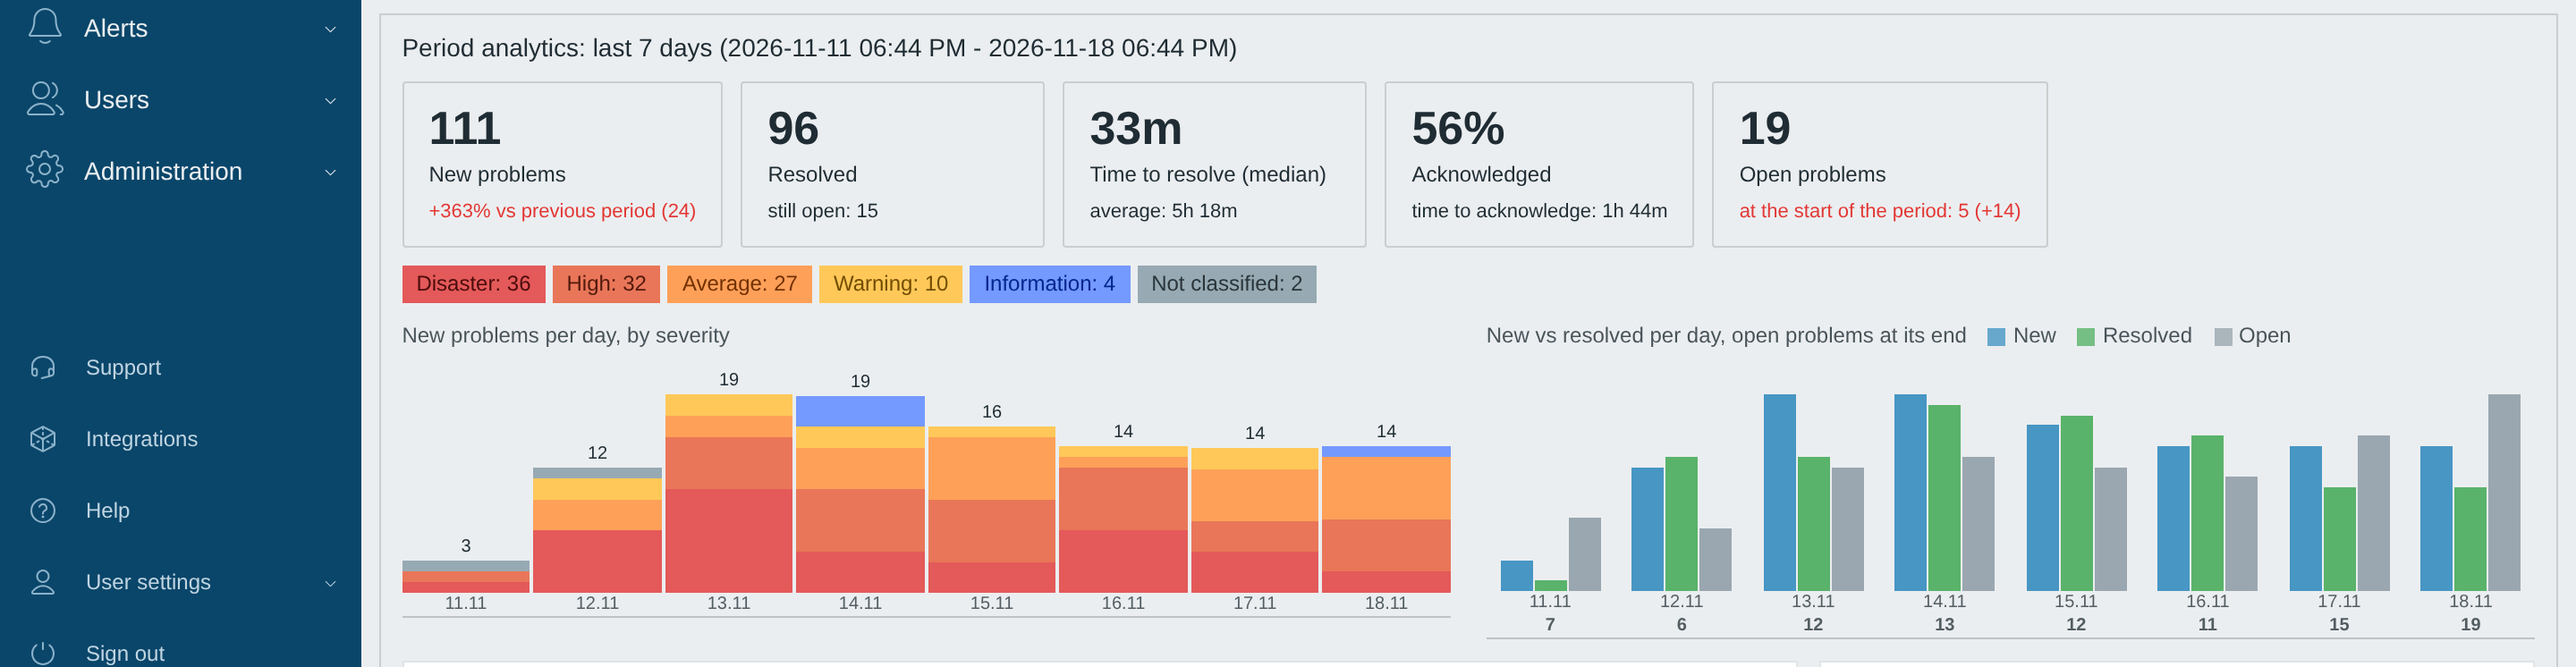
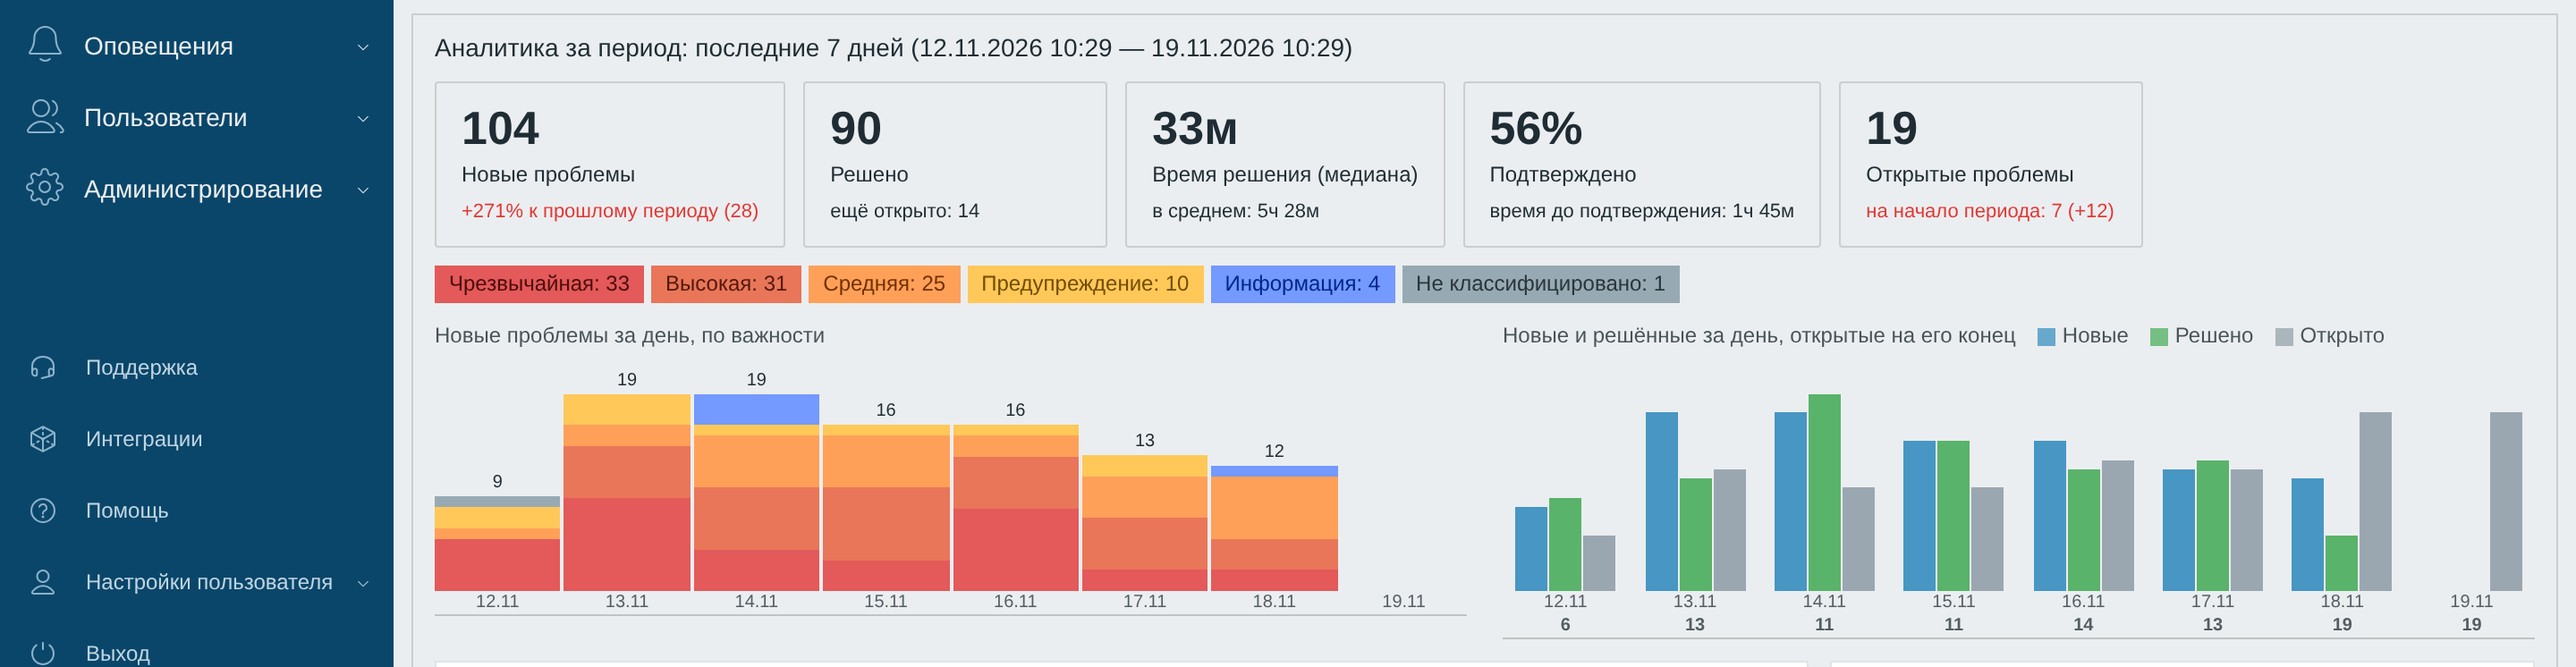
custom_reports: README screenshots in Russian
All 17 screenshots re-taken with the Russian interface (recipient rule rows
filled in the per-host / per-group forms); the separate 18-21 shots removed.

Claude-Session: https://claude.ai/code/session_01So5UuDuEdf5vNknGcGHU1R

diff --git a/modules/custom_reports/README.md b/modules/custom_reports/README.md
@@ -20,42 +20,31 @@
 
 ## Скриншоты
 
-Сняты на Zabbix 7.0.33 с тестовыми данными.
-
-Русский интерфейс (`'language' => 'ru'`, по умолчанию):
-
-| | |
-|---|---|
-| ![Дашборд на русском](docs/screenshots/18-ru-dashboard.png) | ![Вкладка «Изменения»](docs/screenshots/19-ru-changes.png) |
-| Панель отчётов: фильтр, KPI, аналитика за период, графики | Изменения: было → стало, рост и снижение |
-| ![Расписания](docs/screenshots/20-ru-schedules.png) | ![Форма расписания](docs/screenshots/21-ru-schedule-edit.png) |
-| Расписания и доставка, задание cron, мониторинг в Zabbix | Форма расписания |
-
-Примеры отчётов: [docs/sample-report.pdf](docs/sample-report.pdf) (полный, с аналитикой и изменениями),
-[docs/sample-report-summary.pdf](docs/sample-report-summary.pdf) (сводка нерешённых проблем).
-
-Английский интерфейс (`'language' => 'en'`):
+Сняты на Zabbix 7.0.33 с тестовыми данными, язык модуля `ru` (по умолчанию).
 
 | | |
 |---|---|
 | ![Дашборд](docs/screenshots/1-dashboard.png) | ![Фильтр по группам и важности](docs/screenshots/2-dashboard-filtered.png) |
-| Дашборд: KPI, топ хостов, тестовая отправка, таблица проблем | Фильтр: группы Databases + Web servers, Average и выше |
+| Панель отчётов: KPI, топ узлов, аналитика за период | Фильтр: группы Databases + Web servers, «Средняя» и выше |
 | ![Расписания и cron](docs/screenshots/4-schedules.png) | ![HTML-отчёт](docs/screenshots/3-html-report.png) |
-| Расписания и блок Cron job | Выгрузка HTML (то же уходит в письме) |
-| ![Получатели по хостам](docs/screenshots/5-schedule-per-host.png) | ![Получатели по группам](docs/screenshots/6-schedule-per-group.png) |
-| Форма расписания: разбивка по хостам, свои получатели | Разбивка по группам хостов, свои получатели |
-| ![Сортировка и фильтр](docs/screenshots/7-dashboard-sort-filter.png) | ![Фильтры и сортировка в расписании](docs/screenshots/8-schedule-filters.png) |
-| Фильтр «nginx» + неподтверждённые, сортировка по Time | Те же фильтры и «Sort by» в форме расписания |
-| ![Аналитика за период](docs/screenshots/9-dashboard-analytics.png) | ![Аналитика и PDF в расписании](docs/screenshots/10-schedule-analytics-pdf.png) |
-| Дашборд: аналитика за 7 дней, график по дням, кнопка Download PDF | Расписание: период аналитики (Auto / 24 ч / 7 / 30 дней) |
-| ![Нерешённые проблемы](docs/screenshots/11-dashboard-unresolved.png) | ![Problem list](docs/screenshots/12-schedule-problem-list.png) |
-| Нерешённые проблемы: одна строка на проблему, алерты за период, «whole period» | Расписание: «Unresolved summary only» вместо полного списка |
+| Расписания и блок «Задание cron» | Выгрузка HTML (то же уходит в письме) |
+| ![Получатели по узлам](docs/screenshots/5-schedule-per-host.png) | ![Получатели по группам](docs/screenshots/6-schedule-per-group.png) |
+| Форма расписания: отправка по узлам, свои получатели | Отправка по группам узлов, свои получатели |
+| ![Сортировка и фильтр](docs/screenshots/7-dashboard-sort-filter.png) | ![Фильтры в расписании](docs/screenshots/8-schedule-filters.png) |
+| Фильтр «nginx» + неподтверждённые, сортировка по времени, тестовая доставка себе | Те же фильтры и «Сортировка» в форме расписания |
+| ![Аналитика за период](docs/screenshots/9-dashboard-analytics.png) | ![Аналитика в расписании](docs/screenshots/10-schedule-analytics-pdf.png) |
+| Аналитика за 7 дней, графики, повторяющиеся проблемы | Расписание: период аналитики (Авто / 24 часа / 7 / 30 дней), анализ изменений |
+| ![Нерешённые проблемы](docs/screenshots/11-dashboard-unresolved.png) | ![Список проблем](docs/screenshots/12-schedule-problem-list.png) |
+| Нерешённые проблемы: одна строка на проблему, оповещения за период, «весь период» | Расписание: «Только сводка нерешённых» вместо полного списка |
 | ![Графики](docs/screenshots/13-dashboard-charts.png) | ![Статус доставки](docs/screenshots/14-schedules-delivery-status.png) |
-| Графики: новые по важности; новые / решённые / открытые на конец дня | Расписания: результат, следующий запуск, «Test to me», «History», мониторинг в Zabbix |
-| ![История доставок](docs/screenshots/15-delivery-history.png) | ![Вкладка Changes](docs/screenshots/16-changes.png) |
-| История доставок: запуски и результат по каждому получателю | Вкладка Changes: было → стало, рост и снижение |
-| ![Блоки Changes](docs/screenshots/17-changes-blocks.png) | |
-| Новые и исчезнувшие проблемы, MTTR по важности, тепловая карта, шумные триггеры, время в проблеме | |
+| Графики: новые по важности; новые / решённые / открытые на конец дня | Расписания: результат, следующий запуск, «Тест себе», «История», мониторинг в Zabbix |
+| ![История доставки](docs/screenshots/15-delivery-history.png) | ![Вкладка «Изменения»](docs/screenshots/16-changes.png) |
+| История доставки: запуски и результат по каждому получателю | Вкладка «Изменения»: было → стало, рост и снижение |
+| ![Блоки «Изменения»](docs/screenshots/17-changes-blocks.png) | |
+| Новые и исчезнувшие проблемы, MTTR по важности, тепловая карта, «шумные» триггеры | |
+
+Примеры отчётов: [docs/sample-report.pdf](docs/sample-report.pdf) (полный, с аналитикой и изменениями),
+[docs/sample-report-summary.pdf](docs/sample-report-summary.pdf) (сводка нерешённых проблем).
 
 ## Дерево файлов
 
